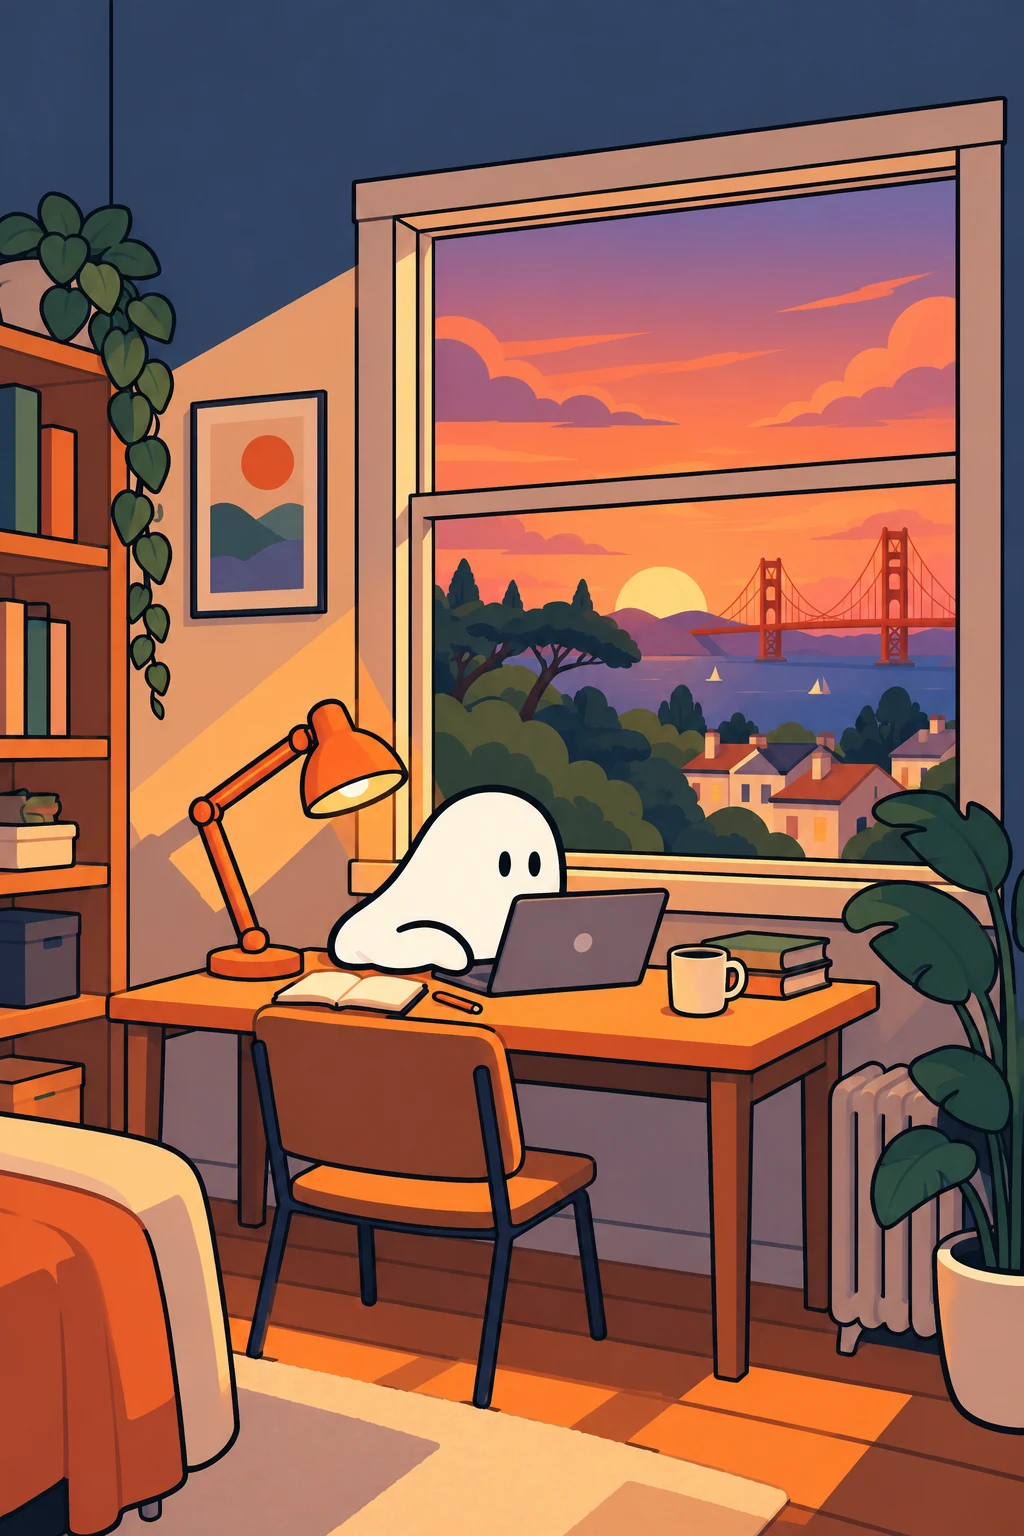
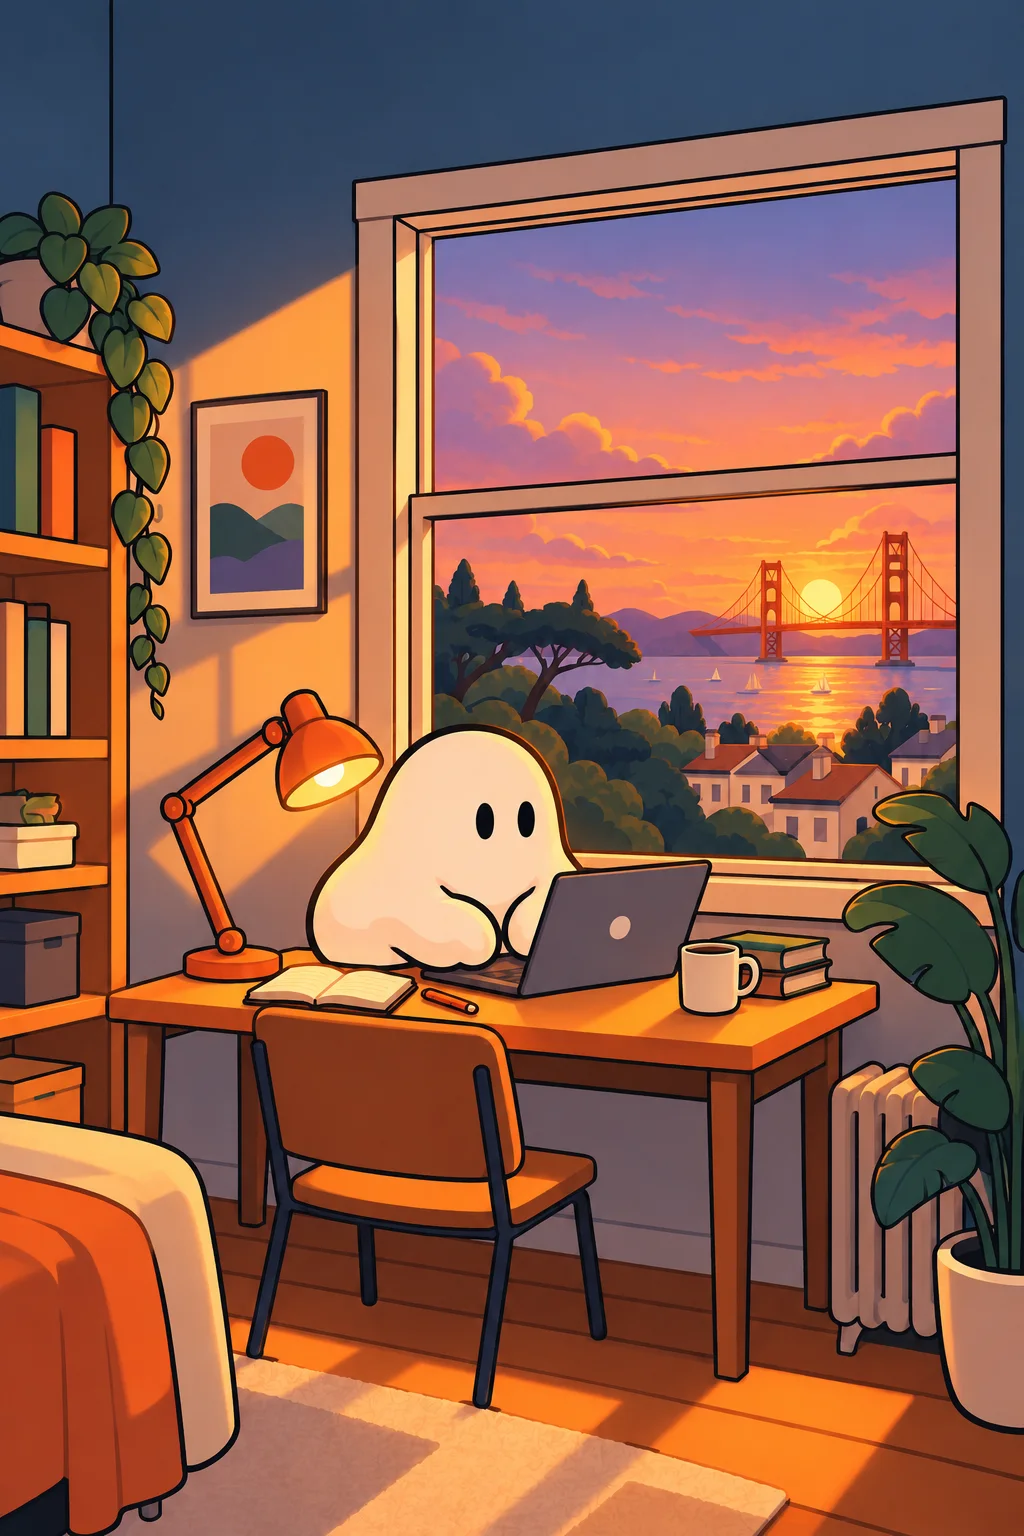
Refine login character and keep weather scene changes silent

diff --git a/src/components/scene-art.tsx b/src/components/scene-art.tsx
@@ -3,7 +3,7 @@
 import { useEffect, useState, type ReactNode } from "react";
 import "./scene-art.css";
 import { sceneWeatherSchema, type SceneWeather } from "@/contracts/scene-weather";
-import { conditionLabels, hasCurrentWeather, parseSceneId, periodLabels, sceneImage, selectScene, weatherLabel, type SceneId, type ScenePeriod, type SceneCondition } from "@/lib/login-scene";
+import { hasCurrentWeather, parseSceneId, sceneImage, selectScene, type SceneId } from "@/lib/login-scene";
 
 export function SceneArt({ className = "", children }: { className?: string; children?: ReactNode }) {
   const [now, setNow] = useState<Date | null>(null);
@@ -57,14 +57,11 @@ export function SceneArt({ className = "", children }: { className?: string; chi
     return () => window.clearTimeout(timer);
   }, [outgoing, visible]);
 
-  const [period, condition] = visible.split("-") as [ScenePeriod, SceneCondition];
   const currentWeather = now && hasCurrentWeather(weather, now) ? weather : null;
-  const label = preview ? `Preview · ${periodLabels[period]} · ${conditionLabels[condition]}` : `San Francisco · ${periodLabels[period]}${currentWeather ? ` · ${weatherLabel(currentWeather.weatherCode)}` : ""}`;
 
   return <aside className={`scene-art ${className}`} aria-label="An illustrated San Francisco apartment study space" data-scene={visible} data-weather-source={preview ? "preview" : currentWeather ? "open-meteo" : "time-only"}>
     {outgoing && <img className="scene-art-image" src={sceneImage(outgoing)} alt="" aria-hidden="true" width="1024" height="1536" />}
     <img key={visible} className={`scene-art-image${outgoing ? " scene-art-image-enter" : ""}`} src={sceneImage(visible)} alt="" aria-hidden="true" width="1024" height="1536" fetchPriority="high" />
     {children}
-    <div className="scene-art-meta"><span>{label}</span>{!preview && currentWeather && <a href="https://open-meteo.com/" target="_blank" rel="noopener noreferrer" title={`Weather model valid at ${new Date(currentWeather.validAt).toLocaleTimeString("en-US", { timeZone: "America/Los_Angeles", hour: "numeric", minute: "2-digit" })} Pacific time`}>Weather: Open-Meteo</a>}</div>
   </aside>;
 }

diff --git a/src/app/login/login.css b/src/app/login/login.css
@@ -45,6 +45,12 @@
 .deems-login-notice { background: #edf4f1; border-color: #b6d1c6; color: #28564b; }
 .deems-login-error { background: #fff0ec; border-color: #e6b2a1; color: #89341d; }
 .deems-login-footer { color: var(--login-muted); font-size: 12px; line-height: 1.6; text-align: center; }
+.deems-login-credits { position:relative; margin-top:5px; font-size:10px; }
+.deems-login-credits summary { display:inline-block; min-height:24px; padding:4px 8px; color:var(--login-muted); cursor:pointer; text-decoration:underline; text-underline-offset:3px; list-style:none; }
+.deems-login-credits summary::-webkit-details-marker { display:none; }
+.deems-login-credits p { position:absolute; z-index:5; bottom:calc(100% + 8px); left:50%; width:min(340px,calc(100vw - 48px)); margin:0; padding:14px 16px; transform:translateX(-50%); border:1px solid #cdd3d5; border-radius:9px; background:#fffefa; color:#52616d; text-align:left; font-size:11px; line-height:1.7; box-shadow:0 4px 18px #17233112; }
+.deems-login-credits a { color:#253b88; text-decoration:underline; text-underline-offset:3px; }
+.deems-login-credits :is(summary,a):focus-visible { outline:3px solid #6b9b98; outline-offset:3px; }
 .deems-login-art-panel { position: relative; min-width: 0; min-height: 620px; margin: 20px 20px 20px 0; overflow: hidden; border-radius: 24px; background: #1b454b; isolation: isolate; }
 .deems-login-scene-copy { position: relative; padding: clamp(30px, 4vw, 64px); color: #fff9f2; }
 .deems-login-scene-copy p { margin: 0 0 14px; color: #d3e7e1; font-size: 13px; font-weight: 500; letter-spacing: .025em; }

diff --git a/src/components/scene-art.css b/src/components/scene-art.css
@@ -3,7 +3,4 @@
 .scene-art::after { position: absolute; inset: 0; z-index: -1; background: var(--scene-scrim, linear-gradient(180deg, #0b272fcc, #0b272fa6 24%, transparent 48%)); content: ""; }
 .scene-art-image-enter { animation: deems-scene-arrive .7s ease-out both; }
 @keyframes deems-scene-arrive { from { opacity: 0; } to { opacity: 1; } }
-.scene-art-meta { position: absolute; inset: auto 20px 20px; display: flex; align-items: center; justify-content: space-between; flex-wrap: wrap; gap: 4px 12px; width: fit-content; max-width: calc(100% - 40px); padding: 8px 12px; border-radius: 8px; background: #0b272fd9; color: #fff9f2; font-size: 11px; line-height: 1.5; }
-.scene-art .scene-art-meta a { color: #d8e9e4; text-decoration: underline; text-underline-offset: 3px; }
-@media(max-width:780px) { .scene-art-meta { inset: auto 10px 10px; max-width: calc(100% - 20px); padding: 6px 9px; font-size: 9px; gap: 2px 8px; } }
 @media(prefers-reduced-motion:reduce) { .scene-art-image-enter { animation: none; } }

diff --git a/src/app/lms-theme.css b/src/app/lms-theme.css
@@ -46,7 +46,6 @@
 .desk-shell.light-lms .desk-menu :is(a,button) { color: var(--lms-ink) !important; }
 .desk-shell.light-lms .desk-menu :is(a,button):hover { background: var(--lms-orange-soft) !important; color: #8d3c18 !important; }
 .desk-shell.light-lms :is(a,.text-button,.sw-progress-copy,.sw-quiz-path-link,.sw-inline-sources>a,.sw-guide-sources>a) { color: var(--lms-link); }
-.desk-shell.light-lms .scene-art-meta a { color: #d8e9e4; }
 .desk-shell.light-lms :is(button,input,textarea,select,a):focus-visible { outline: 3px solid #6ca8ff !important; outline-offset: 3px; }
 .desk-shell.light-lms :is(input,textarea,select,.sw-search,.sw-card-toolbar select,.sw-recall-field textarea,.sw-select-blue) { border-color: #c7d0da !important; background: #fff !important; color: var(--lms-ink) !important; color-scheme: light; }
 .desk-shell.light-lms :is(input,textarea)::placeholder { color: #687587 !important; opacity: 1; }

diff --git a/src/app/login/page.tsx b/src/app/login/page.tsx
@@ -233,9 +233,10 @@ export default function LoginPage() {
       </>}
       </div>
 
-      {!accountForm && <footer className="deems-login-footer">
-        <span>{sessionChecked ? "Your workspace is private to your account" : "Checking sign-in session"}</span>
-      </footer>}
+      <footer className="deems-login-footer">
+        {!accountForm && <span>{sessionChecked ? "Your workspace is private to your account" : "Checking sign-in session"}</span>}
+        <details className="deems-login-credits"><summary>Credits</summary><p>Scene weather from <a href="https://open-meteo.com/" target="_blank" rel="noopener noreferrer">Open-Meteo</a>, used under <a href="https://creativecommons.org/licenses/by/4.0/" target="_blank" rel="noopener noreferrer">CC BY 4.0</a> to select illustrations.</p></details>
+      </footer>
     </section>
     <LoginScene />
   </main>;

diff --git a/docs/deems-brand-integration.md b/docs/deems-brand-integration.md
@@ -44,15 +44,15 @@ Course buttons open the exact selected course, and the welcome action resumes a 
 
 ## Weather and time scenes
 
-The login artwork has 12 saved variants in `public/brand/scenes/`: dawn, day, dusk and night, each with clear, cloudy/foggy and rainy conditions. The approved daytime illustration is the clear-day anchor; 11 matching variants preserve the room, character and camera. All are 1024 by 1536 WebP images, roughly 115 to 155 KB each. The complete set is about 1.66 MB, but a visit loads only the initial and selected scene.
+The login artwork has 12 saved variants in `public/brand/scenes/`: dawn, day, dusk and night, each with clear, cloudy/foggy and rainy conditions. The approved daytime illustration is the clear-day anchor; 11 matching variants preserve the room, character and camera. All are 1024 by 1536 WebP images, roughly 100 to 146 KB each. The complete set is about 1.51 MB, but a visit loads only the initial and selected scene.
 
 `SceneArt` selects assets with deterministic rules, with no LLM calls. It uses San Francisco weather and Pacific time, regardless of the visitor's location. It never requests browser geolocation. Current weather model data, sunrise and sunset come from [Open-Meteo](https://open-meteo.com/en/docs), via the public, fixed-location, read-only `/api/scene-weather` endpoint. Other account and workspace routes remain gated. The response has shared Zod/TypeScript and OpenAPI contracts.
 
 The upstream fetch is cached for 15 minutes and has a 3.5-second timeout. The client refreshes weather every 15 minutes while visible and checks the clock each minute. Dawn spans 45 minutes before sunrise to 75 minutes after; dusk spans 75 minutes before sunset to 45 minutes after. Cloudy and fog codes share the cloudy scene, and precipitation codes use the rain scene. The visible condition label retains the provider's actual condition, including uncommon snow or thunderstorms. Weather data older than 90 minutes or for a different local day is not used. Without weather, Pacific clock hours select a clear time-of-day illustration and no weather condition is claimed.
 
-Scene changes preload the new image and crossfade briefly. Reduced-motion preferences disable the fade. An image load failure keeps the previous valid image. A small caption identifies San Francisco, the time period and available weather, with an Open-Meteo attribution link. The illustration is representative, not a live camera or exact solar-position simulation.
+Scene changes preload the new image and crossfade briefly. Reduced-motion preferences disable the fade. An image load failure keeps the previous valid image. The artwork changes silently, without a weather or time caption. An expandable Credits section below the form provides Open-Meteo and CC BY 4.0 attribution. The illustration is representative, not a live camera or exact solar-position simulation.
 
-Review a specific variant with `/login?scene=night-rain`, substituting any combination of `dawn`, `day`, `dusk`, `night` and `clear`, `cloudy`, `rain`. Preview labels are explicit and previews do not fetch weather. The default login always selects automatically.
+Review a specific variant with `/login?scene=night-rain`, substituting any combination of `dawn`, `day`, `dusk`, `night` and `clear`, `cloudy`, `rain`. Preview scene IDs and source remain available in data attributes; previews do not fetch weather or display a caption. The default login always selects automatically.
 
 ## Earlier reference lock
 
@@ -92,3 +92,9 @@ The authenticated GreatFrontEnd dashboard was reviewed through Safari MCP on Oct
 The owner supplied updated character, animation and environment sheets and requested a model-generated replacement rather than the rough SVG. These are the primary visual target: rounded balanced body, two natural book-holding arms, twin oval eyes, navy outlines and restrained cream shading. The owner allowed a minimal background and specified Presidio, San Francisco. One muted cypress silhouette, small eucalyptus accents, faint bay-blue wash and pale ground shadow provide context without a room, skyline or detailed landscape.
 
 Generated with the built-in image generation tool using the supplied character and animation sheets as references. No model identifier is claimed because the tool does not expose one. The original transparent PNG is retained in the local generation archive. The served asset is a 512 by 512 WebP with alpha, optimized once; no generation or model calls happen at runtime. The existing dashboard layout, wordmark-only header and login scene remain in place.
+
+## Login character and silent scene revision
+
+The owner requested matching the updated character shape in every login weather/time scene and removing the visible weather badge. Keep the existing approved modest Presidio apartment composition and login form. Regenerate the daytime anchor with a rounded cream torso, two natural keyboard-side arms, twin oval eyes and subtle warm shading from the new character sheets. All other variants must preserve that exact new character and room geometry, changing lighting, sky, fog and rain only. No text is baked into assets. Save all 12 variants locally and select deterministically at runtime.
+
+Remove the image metadata overlay entirely. Current San Francisco weather and Pacific clock continue selecting the image silently, with existing cached fetching and offline fallback. Provider and CC BY 4.0 attribution move to an expandable Credits section below the sign-in form, leaving the art clear. Desktop is the requested visual review target for this revision.
